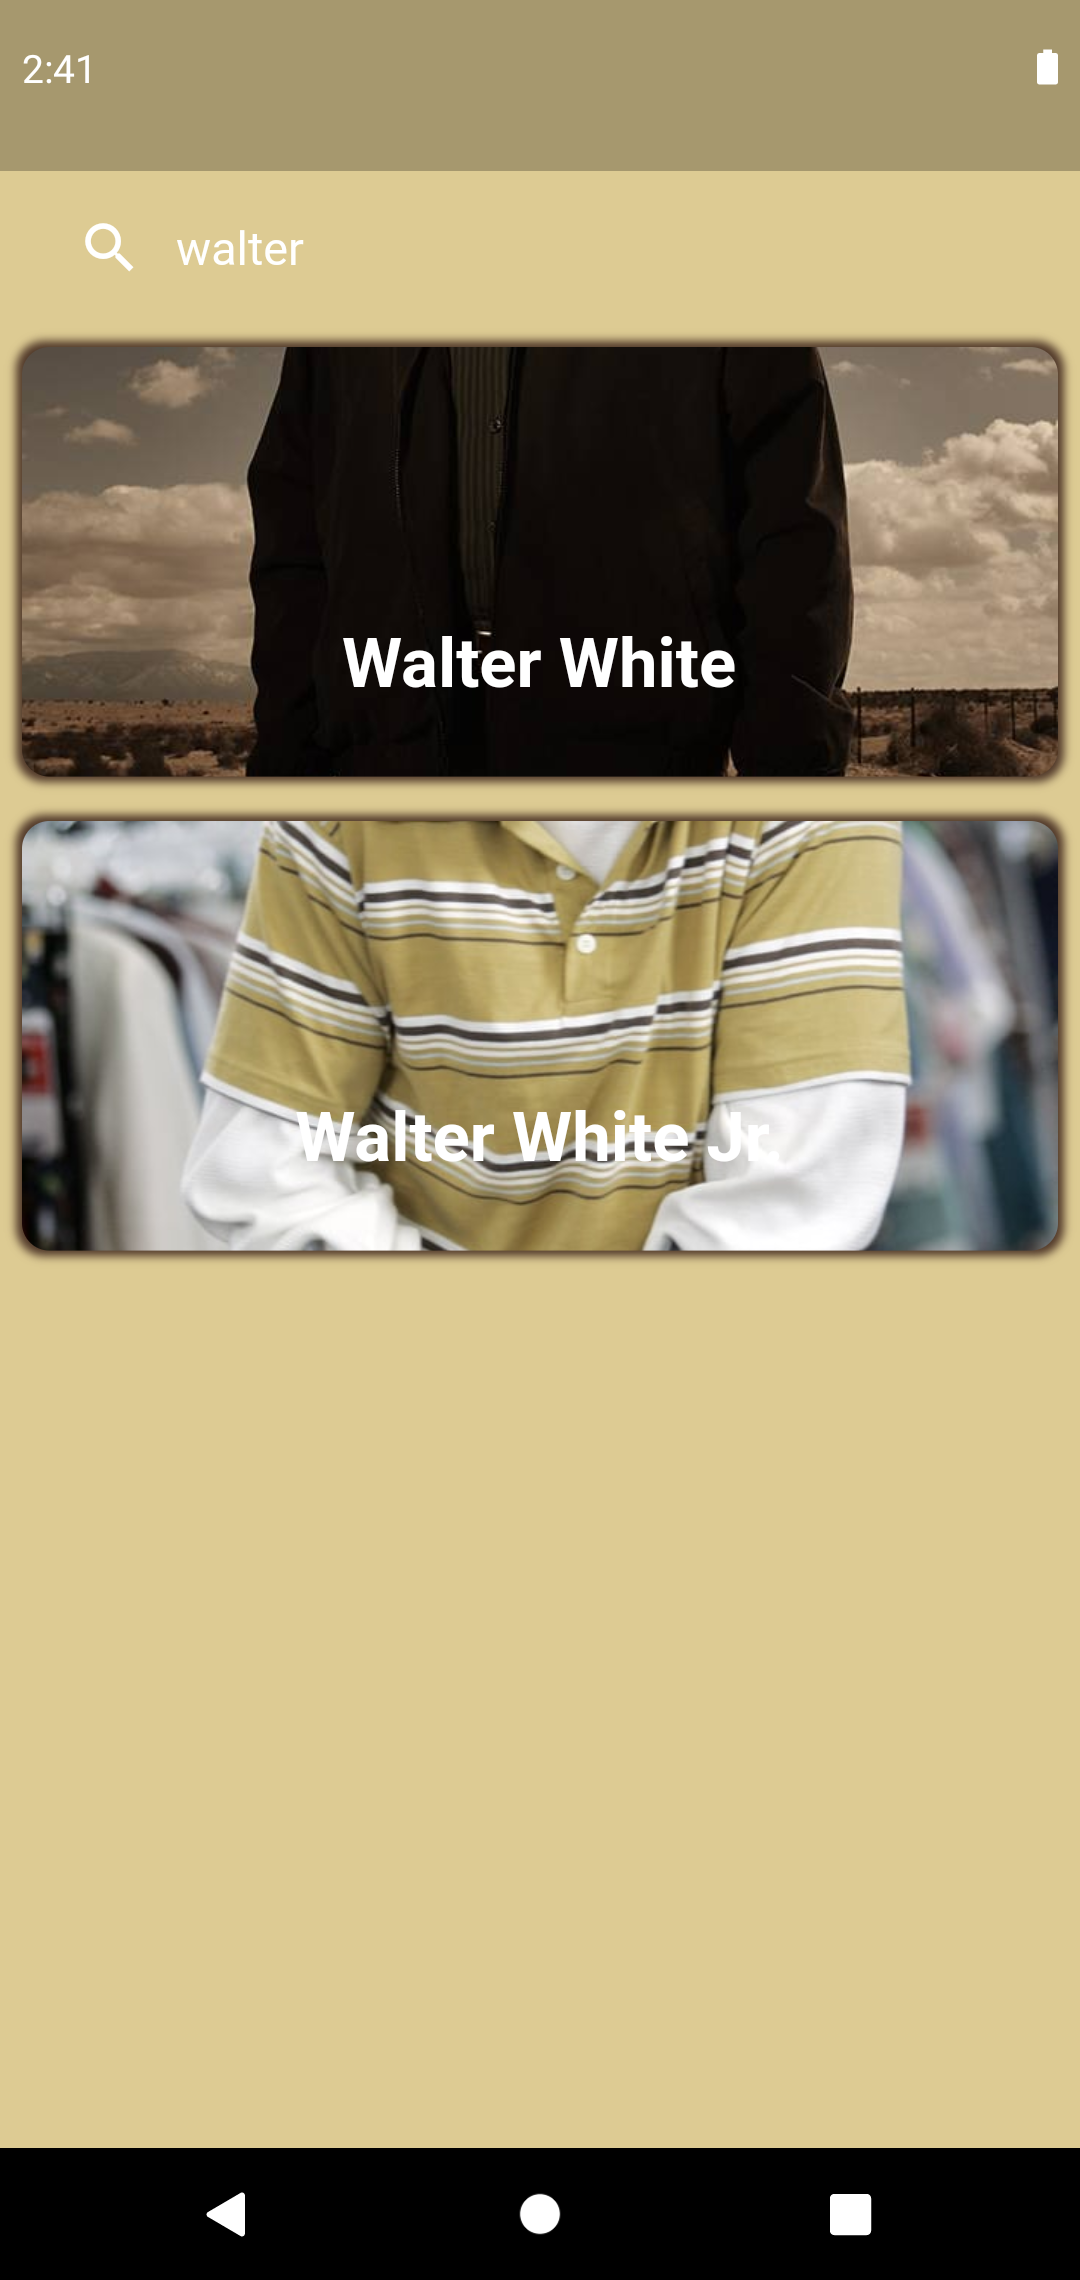
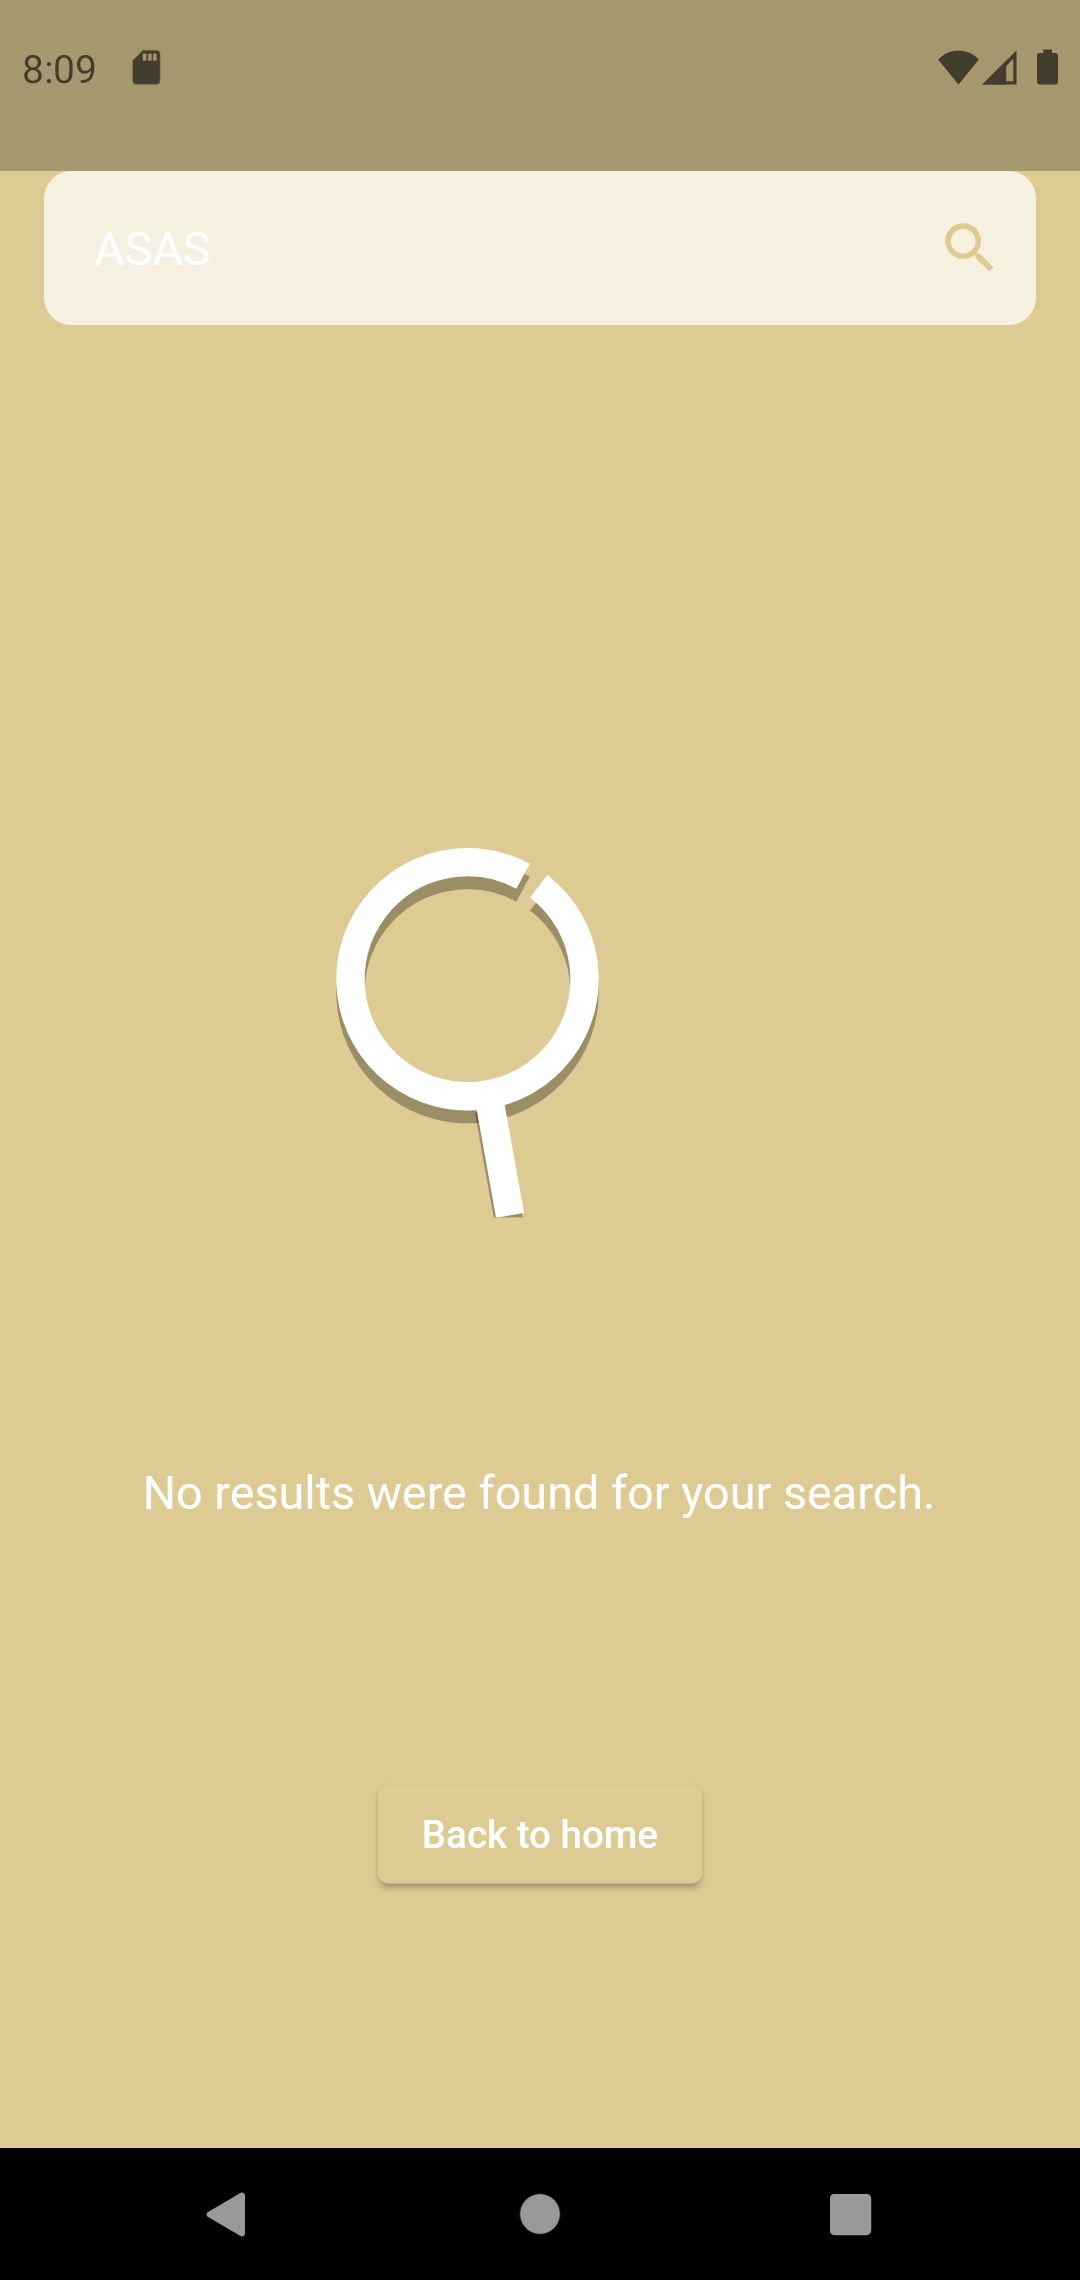
add

diff --git a/lib/home/home_view/home_view.dart b/lib/home/home_view/home_view.dart
@@ -25,7 +25,7 @@ class HomeView extends StatelessWidget {
                           child: Column(
                             mainAxisAlignment: MainAxisAlignment.spaceEvenly,
                             children: [
-                              Container(
+                              SizedBox(
                                   width: Get.size.width * 0.8,
                                   height: Get.size.height * 0.3,
                                   //color: Colors.red,
@@ -40,7 +40,9 @@ class HomeView extends StatelessWidget {
                                   style: ElevatedButton.styleFrom(
                                     primary: const Color(0xffddcb93),
                                   ),
-                                  onPressed: () {},
+                                  onPressed: () {
+                                    hc.searchClear();
+                                  },
                                   child: const Text(
                                     "Back to home",
                                     style: TextStyle(color: Colors.white),
@@ -59,24 +61,32 @@ buildApbbar() {
     elevation: 0.0,
     backgroundColor: const Color(0xffddcb93),
     centerTitle: true,
-    title: TextFormField(
-      style: const TextStyle(color: Colors.white, fontSize: 17.0),
-      cursorColor: Colors.white,
-      controller: hc.controller,
-      decoration: InputDecoration(
-        contentPadding:
-            const EdgeInsets.symmetric(vertical: 18.0, horizontal: 18.0),
-        hintText: "Search characters",
-        hintStyle: const TextStyle(color: Colors.white, fontSize: 17.0),
-        border: InputBorder.none,
-        suffixIcon: IconButton(
-            onPressed: () {
-              hc.searchApiGet();
-            },
-            icon: const Icon(
-              Icons.search,
-              color: Colors.white,
-            )),
+    title: Container(
+      decoration: BoxDecoration(
+          color: Colors.white.withOpacity(0.8),
+          borderRadius: BorderRadius.circular(10.0)),
+      child: TextFormField(
+        style: const TextStyle(color: Color(0xffddcb93), fontSize: 17.0),
+        cursorColor: const Color(0xffddcb93),
+        controller: hc.controller,
+        decoration: InputDecoration(
+          contentPadding:
+              const EdgeInsets.symmetric(vertical: 18.0, horizontal: 18.0),
+          hintText: "Search characters",
+          hintStyle: const TextStyle(
+              color: Color(0xffddcb93),
+              fontSize: 17.0,
+              fontWeight: FontWeight.w600),
+          border: InputBorder.none,
+          suffixIcon: IconButton(
+              onPressed: () {
+                hc.searchApiGet();
+              },
+              icon: const Icon(
+                Icons.search,
+                color: Color(0xffddcb93),
+              )),
+        ),
       ),
     ),
   );
@@ -84,78 +94,81 @@ buildApbbar() {
 
 buildBodyList() {
   var hc = Get.put(HomeController());
-  return ParallaxArea(
-    child: ListView.builder(
-        itemCount: hc.homelist!.length,
-        scrollDirection: Axis.vertical,
-        itemBuilder: (context, index) {
-          var item = hc.homelist![index];
-          return InkWell(
-              onTap: () {
-                Get.to(() => DetailView(
-                      characterId: item.charId!,
-                    ));
-              },
-              child: ParallaxWidget(
-                child: Padding(
-                  padding: const EdgeInsets.all(8.0),
-                  child: Container(
-                      width: Get.size.width,
-                      height: 200.0,
-                      child: Stack(
-                        children: [
-                          Align(
-                              alignment: Alignment.bottomCenter,
-                              child: Text(
-                                item.name!,
-                                style: const TextStyle(
-                                    color: Colors.white,
-                                    fontSize: 20.0,
-                                    fontWeight: FontWeight.w700),
-                              ))
-                        ],
-                      )),
-                ),
-                overflowWidthFactor: 1,
-                background: Image.network(item.img!, fit: BoxFit.cover,
-                    loadingBuilder: (BuildContext context, Widget child,
-                        ImageChunkEvent? loadingProgress) {
-                  if (loadingProgress == null) {
-                    return child;
-                  }
+  return Padding(
+    padding: const EdgeInsets.symmetric(vertical: 10.0),
+    child: ParallaxArea(
+      child: ListView.builder(
+          itemCount: hc.homelist!.length,
+          scrollDirection: Axis.vertical,
+          itemBuilder: (context, index) {
+            var item = hc.homelist![index];
+            return InkWell(
+                onTap: () {
+                  Get.to(() => DetailView(
+                        characterId: item.charId!,
+                      ));
+                },
+                child: ParallaxWidget(
+                  child: Padding(
+                    padding: const EdgeInsets.all(8.0),
+                    child: SizedBox(
+                        width: Get.size.width,
+                        height: 200.0,
+                        child: Stack(
+                          children: [
+                            Align(
+                                alignment: Alignment.bottomCenter,
+                                child: Text(
+                                  item.name!,
+                                  style: const TextStyle(
+                                      color: Colors.white,
+                                      fontSize: 20.0,
+                                      fontWeight: FontWeight.w700),
+                                ))
+                          ],
+                        )),
+                  ),
+                  overflowWidthFactor: 1,
+                  background: Image.network(item.img!, fit: BoxFit.cover,
+                      loadingBuilder: (BuildContext context, Widget child,
+                          ImageChunkEvent? loadingProgress) {
+                    if (loadingProgress == null) {
+                      return child;
+                    }
 
-                  return Center(
-                    child: Column(
-                      mainAxisSize: MainAxisSize.min,
-                      children: [
-                        CustomCircular(
-                          color: Colors.white,
-                          value: loadingProgress.expectedTotalBytes != null
-                              ? loadingProgress.cumulativeBytesLoaded /
-                                  loadingProgress.expectedTotalBytes!
-                              : null,
-                        ),
-                        Padding(
-                          padding: const EdgeInsets.all(8.0),
-                          child: Text(
-                            loadingProgress.expectedTotalBytes != null
-                                ? ((loadingProgress.cumulativeBytesLoaded /
-                                            loadingProgress
-                                                .expectedTotalBytes!) *
-                                        100)
-                                    .toStringAsFixed(0)
-                                : "",
-                            style: const TextStyle(
-                                color: Colors.white,
-                                fontSize: 20.0,
-                                fontWeight: FontWeight.w700),
+                    return Center(
+                      child: Column(
+                        mainAxisSize: MainAxisSize.min,
+                        children: [
+                          CustomCircular(
+                            color: Colors.white,
+                            value: loadingProgress.expectedTotalBytes != null
+                                ? loadingProgress.cumulativeBytesLoaded /
+                                    loadingProgress.expectedTotalBytes!
+                                : null,
                           ),
-                        )
-                      ],
-                    ),
-                  );
-                }),
-              ));
-        }),
+                          Padding(
+                            padding: const EdgeInsets.all(8.0),
+                            child: Text(
+                              loadingProgress.expectedTotalBytes != null
+                                  ? ((loadingProgress.cumulativeBytesLoaded /
+                                              loadingProgress
+                                                  .expectedTotalBytes!) *
+                                          100)
+                                      .toStringAsFixed(0)
+                                  : "",
+                              style: const TextStyle(
+                                  color: Colors.white,
+                                  fontSize: 20.0,
+                                  fontWeight: FontWeight.w700),
+                            ),
+                          )
+                        ],
+                      ),
+                    );
+                  }),
+                ));
+          }),
+    ),
   );
 }

diff --git a/lib/detail/detail_view/detail_view.dart b/lib/detail/detail_view/detail_view.dart
@@ -20,25 +20,24 @@ class DetailView extends StatelessWidget {
               appBar: AppBar(
                   leading: Padding(
                     padding: const EdgeInsets.all(7.0),
-                    child: Container(
-                      child: IconButton(
-                          onPressed: () {
-                            Get.back();
-                          },
-                          icon: const Icon(
-                            Icons.arrow_back,
-                            color: Colors.white,
-                          )),
-                    ).asGlass(
-                      tintColor: Colors.transparent,
-                    ),
+                    child: IconButton(
+                            onPressed: () {
+                              Get.back();
+                            },
+                            icon: const Icon(
+                              Icons.arrow_back,
+                              color: Colors.white,
+                            ))
+                        .asGlass(
+                            tintColor: Colors.transparent,
+                            clipBorderRadius: BorderRadius.circular(10.0)),
                   ),
                   elevation: 0,
                   backgroundColor: Colors.transparent),
               body: dc.isloading
                   ? Center(
                       child: CustomCircular(color: const Color(0xffddcb93)))
-                  : Container(
+                  : SizedBox(
                       width: Get.size.width,
                       height: Get.size.height,
                       child: Stack(
@@ -56,7 +55,7 @@ class DetailView extends StatelessWidget {
                             child: Padding(
                                 padding: const EdgeInsets.symmetric(
                                     horizontal: 20.0, vertical: 10.0),
-                                child: Container(
+                                child: SizedBox(
                                   width: Get.size.width,
                                   height: Get.size.height * 0.3,
                                   child: Padding(
